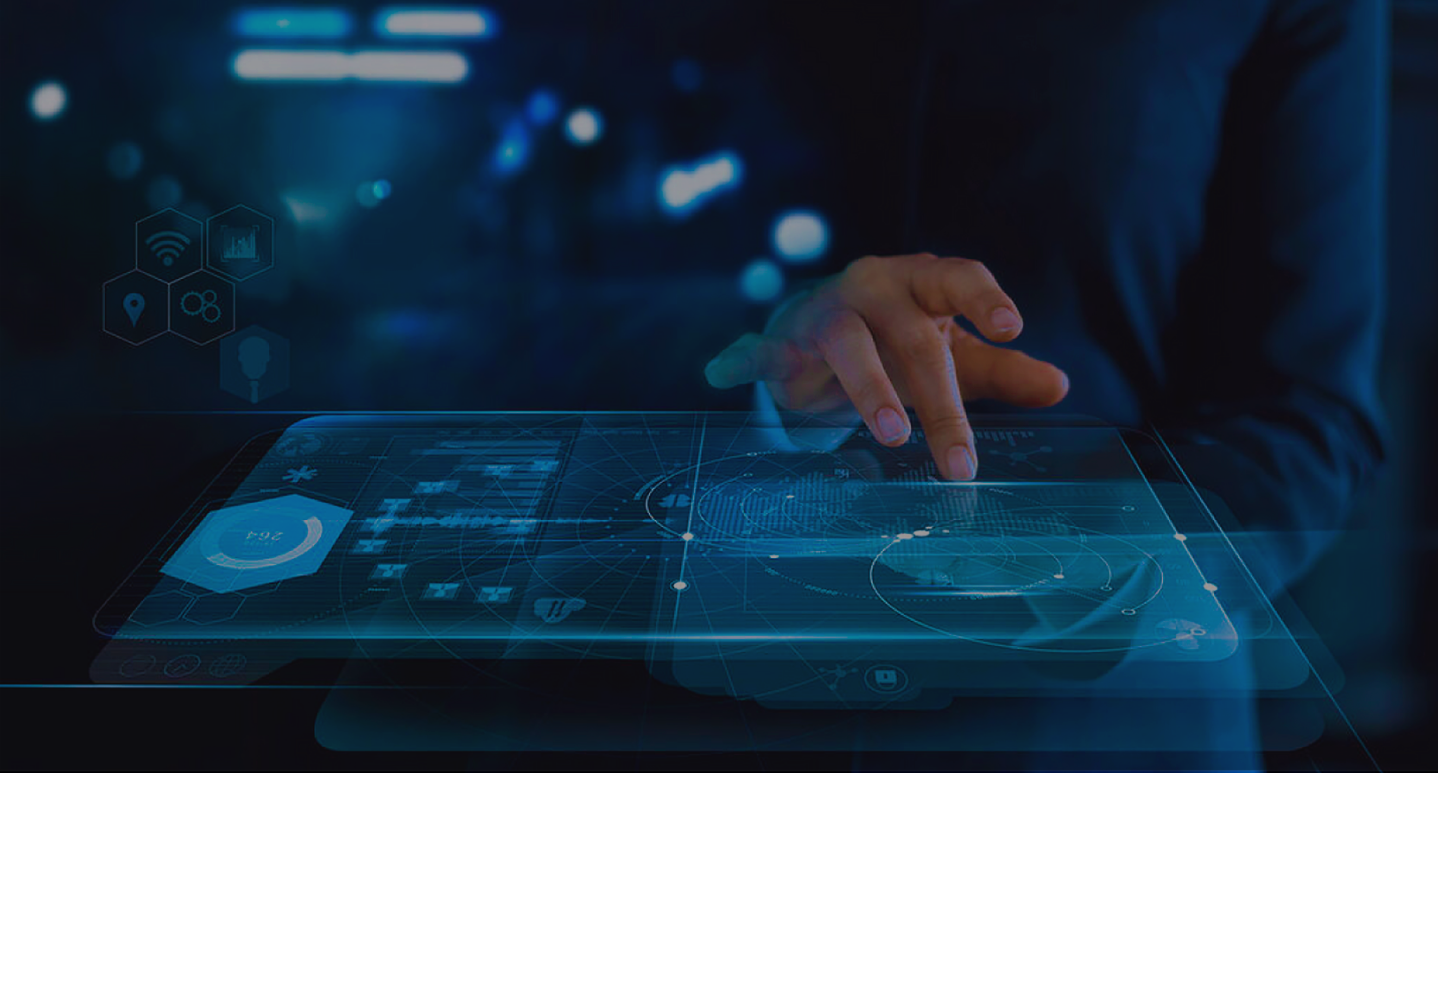
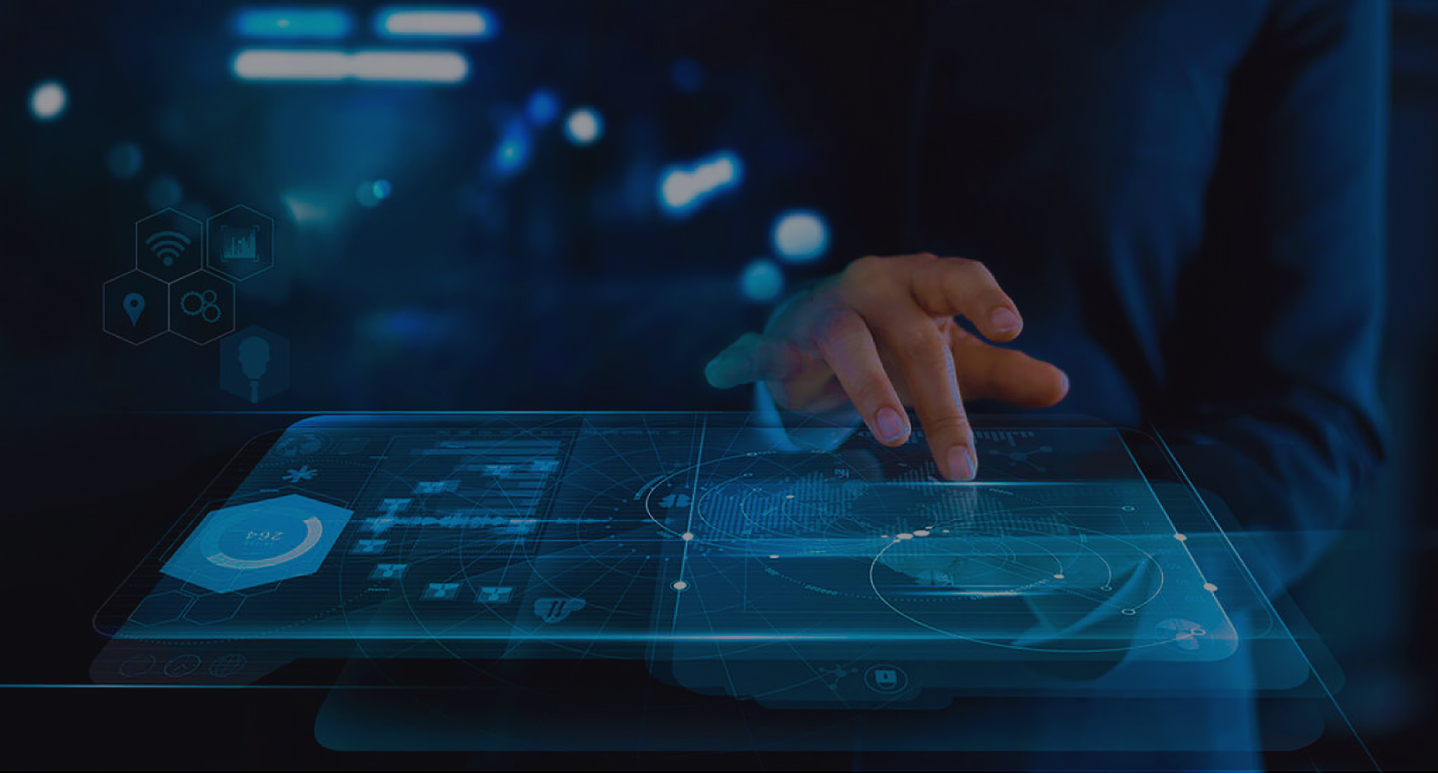
att 2

diff --git a/assets/css/style.css b/assets/css/style.css
@@ -1,6 +1,14 @@
+@font-face {
+    font-family: 'Copperplate', 'Copperplate Gothic Light';
+    src: url('../font/copperplate-gothic.otf') format('truetype');
+}
+
 body{
-    background-color: #3D434B;
+    background-color: #1B1C1E;/* #3D434B */
     color: #FFFFFF;
+    margin: 0;
+    padding: 0;
+    font-family: 'Copperplate Gothic Light';
 }
 
 h1{
@@ -12,8 +20,14 @@ h2{
     text-decoration: underline;
 }
 
+#navbar{
+    position: fixed;
+    width:100%;
+}
+
 #navbar a{
-    display: inline;
+    display: flex;
+    flex-flow: wrap;
 }
 
 #navbar ul {
@@ -54,16 +68,28 @@ h2{
 
 #brand{
     background-image: url("../img/background.png");
+    background-size: cover;
     background-repeat: no-repeat;
-    width: 1451px;
-    height: 800px;
+    display: flex;
+    flex: 1;
+    align-items: center;
+    justify-content: center;
+    height: 61.75em;
 }
 
 #about {
-    background-color: #57E4FC;
+    background-color: #1F1F1F; /*#57E4FC*/
     display: flex;
-    justify-content: start;
-    width: 1381px;
-    height: 333px;
+    flex-flow: row;
     align-items: center;
+    justify-content: space-between;
+    height: 21em;
+}
+
+#about h2{
+    padding-left: 3em;
+}
+
+#about p{
+    padding-left: 5em;
 }

diff --git a/index.html b/index.html
@@ -15,7 +15,7 @@
         <nav id="navbar">
             <ul>
                 <li><a>Faça seu orçamento!</a></li>
-                <li><a href="">Sobre</a></li>
+                <li><a >Sobre</a></li>
                 <li><a>Serviços</a></li>
                 <li><a>Portifólio</a></li>
                 <li><a>Contato</a></li>
